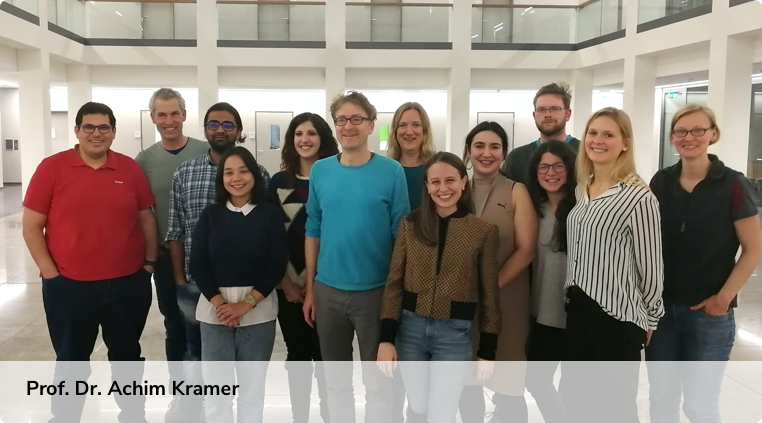
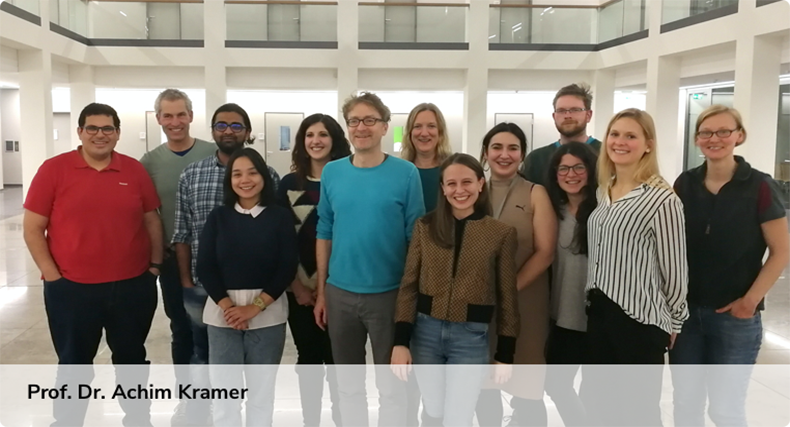
Final v5

diff --git a/css/style.css b/css/style.css
@@ -20,16 +20,16 @@
     float: left; }
     .row [class^="col-"]:not(:last-child) {
       margin-right: 3rem; }
-      @media only screen and (max-width: 37.5em) {
+      @media only screen and (max-width: 64em) {
         .row [class^="col-"]:not(:last-child) {
-          margin-right: 1.5rem; } }
+          margin-right: 3rem; } }
       @media only screen and (max-width: 56.25em) {
         .row [class^="col-"]:not(:last-child) {
           margin-right: 0;
           margin-bottom: 3rem; } }
-      @media only screen and (max-width: 64em) {
+      @media only screen and (max-width: 37.5em) {
         .row [class^="col-"]:not(:last-child) {
-          margin-right: 3rem; } }
+          margin-right: 1.5rem; } }
     @media only screen and (max-width: 56.25em) {
       .row [class^="col-"] {
         width: 100% !important; } }
@@ -783,7 +783,7 @@ body {
       width: 100%;
       height: auto; }
     .quotebox__img--medium {
-      min-width: 100%;
+      max-width: 100%;
       height: auto; }
       @media only screen and (max-width: 64em) {
         .quotebox__img--medium {
@@ -895,7 +895,10 @@ body {
       padding: 2.5%; } }
 
 .group-image {
-  padding: 15% 0; }
+  padding: 20% 0; }
+  @media only screen and (max-width: 64em) {
+    .group-image {
+      padding: 12.5% 0; } }
   @media only screen and (max-width: 56.25em) {
     .group-image {
       justify-items: center;
@@ -953,6 +956,9 @@ body {
 
 .deg90 {
   transform: rotate(90deg) translate(22rem) rotate(-90deg); }
+  @media only screen and (max-width: 23.5em) {
+    .deg90 {
+      transform: rotate(90deg) translate(29rem) rotate(-90deg); } }
   @media only screen and (max-width: 20em) {
     .deg90 {
       transform: rotate(90deg) translate(28rem) rotate(-90deg); } }
@@ -987,6 +993,9 @@ body {
 
 .deg270 {
   transform: rotate(270deg) translate(22rem) rotate(-270deg); }
+  @media only screen and (max-width: 23.5em) {
+    .deg270 {
+      transform: rotate(270deg) translate(29rem) rotate(-270deg); } }
   @media only screen and (max-width: 20em) {
     .deg270 {
       transform: rotate(270deg) translate(28rem) rotate(-270deg); } }

diff --git a/index.html b/index.html
@@ -62,6 +62,7 @@
             <li class="nav__item">
               <a
                 href="https://bodyclock.typeform.com/to/m2WQZb"
+                target="_blank"
                 class="nav__link btn btn--nav"
                 >Bestell-Info</a
               >
@@ -89,6 +90,7 @@
               <a
                 href="https://bodyclock.typeform.com/to/m2WQZb"
                 class="btn btn--default btn--animated"
+                target="_blank"
                 >Erfahren sie mehr</a
               >
             </div>
@@ -198,6 +200,7 @@
                   <a
                     href="https://bodyclock.typeform.com/to/m2WQZb"
                     class="btn btn--default2 btn--animated"
+                    target="_blank"
                     >Bestell-Info</a
                   >
                 </div>
@@ -324,6 +327,7 @@
                   <a
                     href="https://bodyclock.typeform.com/to/m2WQZb"
                     class="btn btn--bestellen btn--animated"
+                    target="_blank"
                     >Erfahren sie mehr</a
                   >
                 </div>

diff --git a/sass/main.scss b/sass/main.scss
@@ -1127,7 +1127,7 @@ body {
     }
 
     &--medium {
-      min-width: 100%;
+      max-width: 100%;
       height: auto;
 
       @include respond(laptop) {
@@ -1285,11 +1285,12 @@ body {
 //INFOGRAPH CIRCLE IMAGE
 
 .group-image {
-  padding: 15% 0;
+  padding: 20% 0;
   @include respond(xphone) {
   }
 
-  @include respond(l-phone) {
+  @include respond(laptop) {
+    padding: 12.5% 0;
   }
 
   @include respond(tab-port) {
@@ -1370,6 +1371,10 @@ body {
 .deg90 {
   transform: rotate(90deg) translate(22rem) rotate(-90deg);
 
+  @include respond(xphone) {
+    transform: rotate(90deg) translate(29rem) rotate(-90deg);
+  }
+
   @include respond(oldphone) {
     transform: rotate(90deg) translate(28rem) rotate(-90deg);
   }
@@ -1411,6 +1416,9 @@ body {
 }
 .deg270 {
   transform: rotate(270deg) translate(22rem) rotate(-270deg);
+  @include respond(xphone) {
+    transform: rotate(270deg) translate(29rem) rotate(-270deg);
+  }
   @include respond(oldphone) {
     transform: rotate(270deg) translate(28rem) rotate(-270deg);
   }

diff --git a/sass/layout/_grid.scss b/sass/layout/_grid.scss
@@ -103,8 +103,8 @@ $gutter-none: 0;
     &:not(:last-child) {
       margin-right: $gutter-horizontal;
 
-      @include respond(phone) {
-        margin-right: $gutter-vertical-x-small;
+      @include respond(laptop) {
+        margin-right: $gutter-vertical-small;
       }
 
       @include respond(tab-port) {
@@ -112,8 +112,8 @@ $gutter-none: 0;
         margin-bottom: $gutter-vertical-small;
       }
 
-      @include respond(laptop) {
-        margin-right: $gutter-vertical-small;
+      @include respond(phone) {
+        margin-right: $gutter-vertical-x-small;
       }
     }
 
